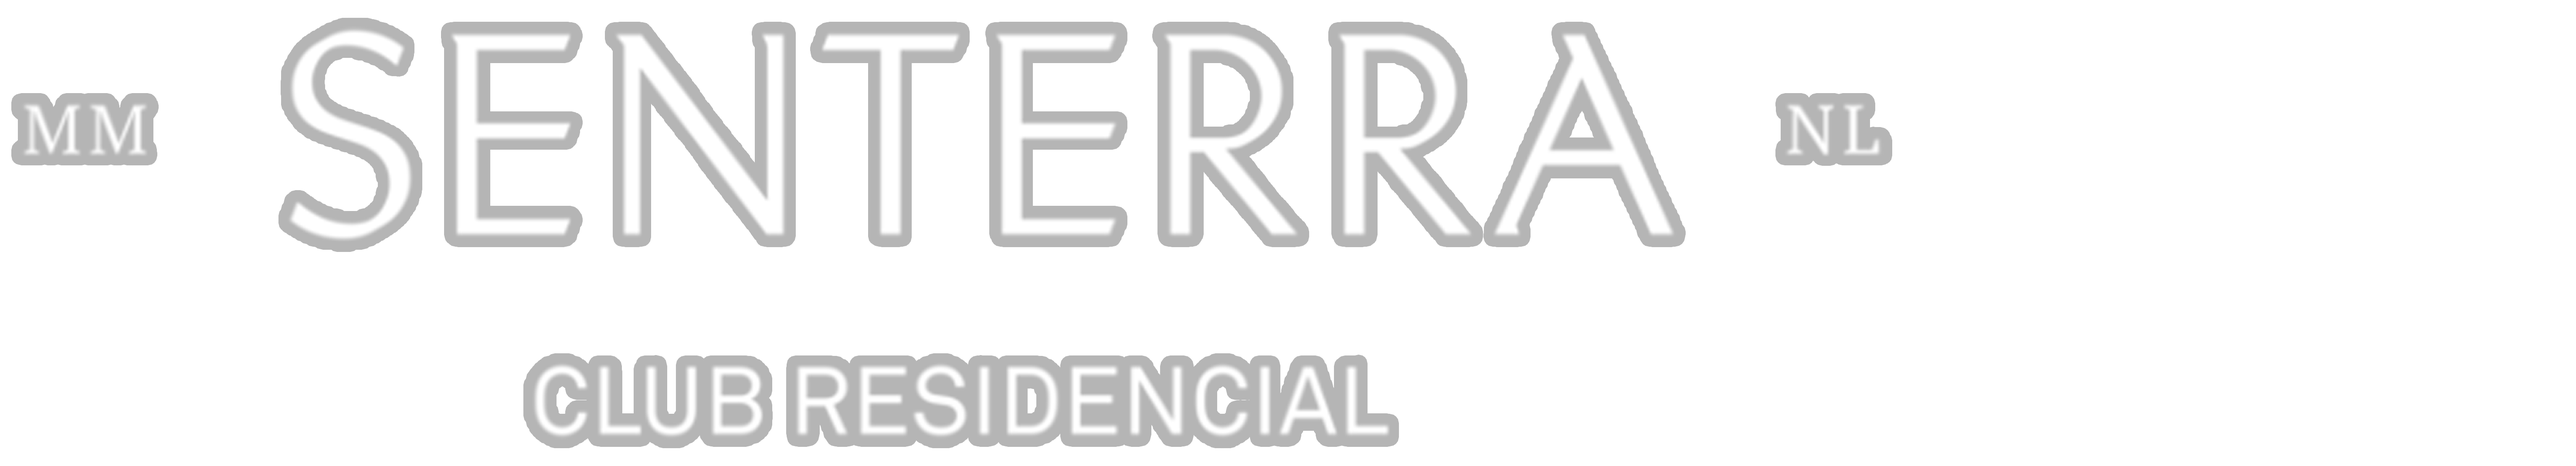
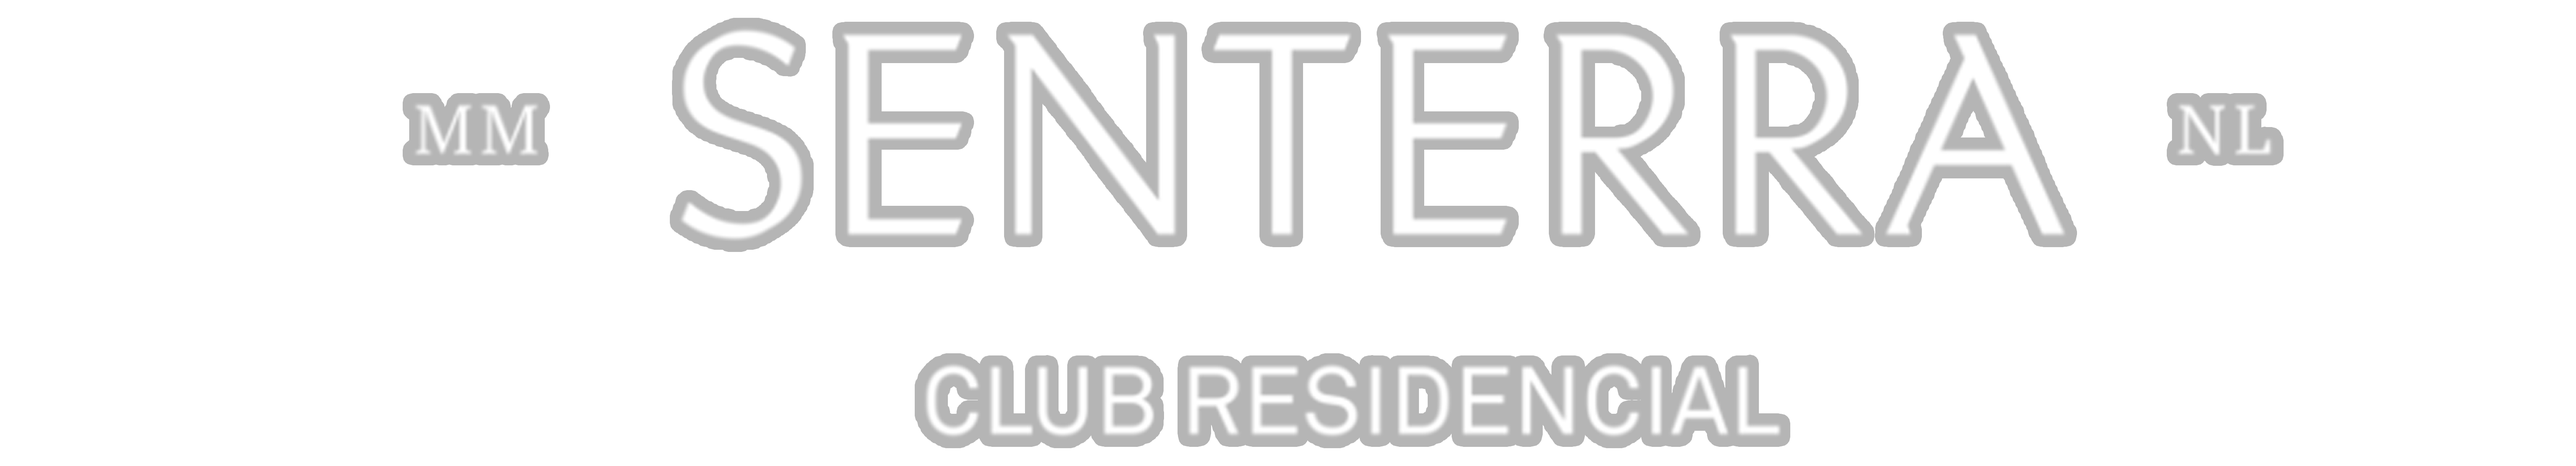
1

diff --git a/cpi/index.html b/cpi/index.html
@@ -140,7 +140,7 @@ window.clientAccessCache = window.clientAccessCache || {};
 
 <div class="logoinv-wrapper">
    <a href="#" onclick="event.preventDefault(); window.location.reload(true);" title="Reload Site">
-  <img id="mainClientLogo" style="height: 50px;" src="" alt=""></a>
+  <img id="mainClientLogo" style="height: 70px;" src="" alt=""></a>
 </div>
 <script>
   // Set main logo from config
